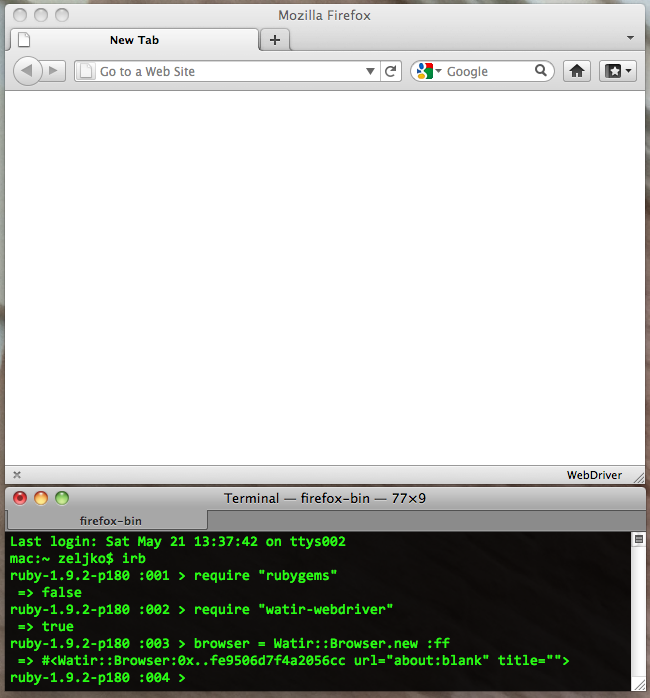
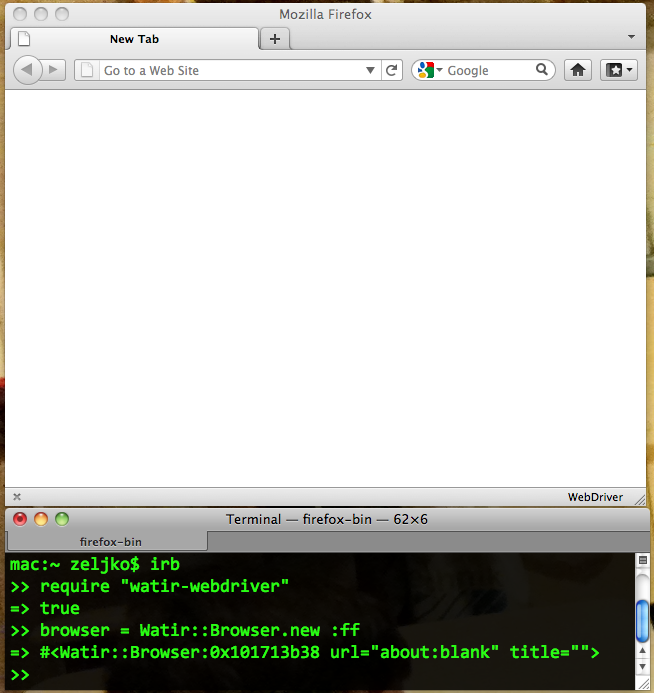
updated watir in five minutes

Changed region(s): [[0.0, 0.0, 1.0, 1.0]]

diff --git a/tools/watir5.rb b/tools/watir5.rb
@@ -1,4 +1,3 @@
-require "rubygems"
 require "watir-webdriver"
 browser = Watir::Browser.new :ff
 browser.goto "http://www.google.com/"

diff --git a/watir-in-five-minutes.md b/watir-in-five-minutes.md
@@ -1,8 +1,8 @@
 # Watir in Five Minutes
 
-In this chapter I assume you have watir-webdriver gem and Firefox browser installed, since that is the combination of the only Watir gem that is available on all platforms, and a popular browser, also available on all platforms.
+In this chapter I assume you have Ruby, RubyGems, watir-webdriver gem and Firefox browser installed, since that is the combination available on all operating systems. If you do not have them installed, please see *Installation* chapter.
 
-_An example would be handy right about now_ Brian Marick would say. Five minutes from now, you will be crazy about Watir. If not, maybe it is not the right tool for you. Even then, if you continue reading the book, I hope you will grow to like it the more you know about it.
+*An example would be handy right about now* Brian Marick would say. Five minutes from now, you will be crazy about Watir. If not, maybe it is not the right tool for you. Even then, if you continue reading the book, I hope you will grow to like it the more you know about it.
 
 In the rest of the book, I will explain all Watir functionality in great (maybe even painful) detail, but for now, I just want to show off a few cool features to get you excited about it.
 
@@ -10,27 +10,36 @@ I still remember how pleasantly surprised I was the first time I saw Watir at wo
 
 If you are familiar with Ruby, I am sure you already think IRB is one of the greatest tools for learning a new Ruby library.
 
-If you are new to Ruby, you are probably thinking: _What is this IRB thing?_
+If you are new to Ruby, you are probably thinking: *What is this IRB thing?*
 
-IRB (in this case) does not stand for _International Rugby Board_ or _Immigration or Refugee Board_ (of Canada). It stands for _Interactive Ruby Shell_. Think of it as a shell that knows Ruby (as the name says).
+IRB (in this case) does not stand for *International Rugby Board* or *Immigration or Refugee Board (of Canada)*. It stands for *Interactive Ruby Shell*. Think of it as a shell that knows Ruby (as the name says).
 
-To start IRB, just type `irb` in command line. You will see something like this (on Mac):
+To start IRB, just type `irb` in command line. You will see something like this:
 
     $ irb
-    >> 
+    >
 
-It should look similar on Windows or Linux.
 
-Now you can enter any Ruby command and you will immediately get a result. We will start with telling Ruby that we want to use RubyGems and watir-webdriver gem:
-
-    require "rubygems"
-    require "watir-webdriver"
+Now you can enter any Ruby command and you will immediately get a result. We will start with telling Ruby that we want to use watir-webdriver gem with `require "watir-webdriver"`:
 
 You should see something like this:
 
-    require "rubygems"
-    => false
-    require "watir-webdriver"
+    > require "watir-webdriver"
+    => true
+
+If you get something like this, do not panic:
+
+    > require "watir-webdriver"
+    LoadError: no such file to load -- watir-webdriver
+    from (irb):1:in `require'
+    from (irb):1
+
+It just means you have to require RubyGems first. In that case, do this:
+
+    > require "rubygems"
+    => true
+
+    > require "watir-webdriver"
     => true
 
 Every Ruby command returns something. After `require "rubygems"` you will get either `true` or `false`, depending how your Ruby installation is set up. You do not have to care about that right now. You should get `=> true` after `require "watir-webdriver"`. There are two parts in the returned line. The first one is `=>`. It looks like an arrow. It means `Ruby returned this`. The second part is `true`, the thing that is actually returned. When `true` is returned, it usually means that everything is fine.
@@ -41,97 +50,95 @@ And now the magic starts. With just one command you will open Firefox.
 
     browser = Watir::Browser.new :ff
 
-![watir-webdriver driving Firefox 4 on Mac OS 10.6](https://github.com/zeljkofilipin/watirbook/raw/master/images/watir-in-five-minutes/webdriver-firefox.png)\
+![watir-webdriver driving Firefox 6 on Mac OS 10.6](https://github.com/zeljkofilipin/watirbook/raw/master/images/watir-in-five-minutes/webdriver-firefox.png)\
 
-*watir-webdriver driving Firefox 4 on Mac OS 10.6*
+*watir-webdriver driving Firefox 6 on Mac OS 10.6*
 
-When I saw the browser magically appearing for the first time, I started singing (with apologies to [Foreigner]): _I've been waiting for a tool like you to come into my life..._
+When I saw the browser magically appearing for the first time, I started singing (with apologies to [Foreigner](http://www.youtube.com/watch?v=BrzzR-3PPqw)): *I've been waiting for a tool like you to come into my life...*
 
 Please open just one browser. It will be enough. You can play with other browsers later.
+ Output should be similar to this:
 
-Output should be similar to this:
-
-    browser = Watir::Browser.new :ff
+    > browser = Watir::Browser.new :ff
     => #<Watir::Browser:0x2ed1f1cd5b186306 url="about:blank" title="">
 
 As I said earlier, you can ignore `#<Watir::Browser...>`. Opening Firefox returned the browser as an object, and this is textual representation of the object.
 
-Just opening a browser is cool, but not so useful. Watir can do much more. For example, it can navigate the browser to any site. I will use google.com in this example. I suggest that you literally follow the example, and then try a few sites yourself.
+Just opening a browser is cool, but not so useful. Watir can do much more. For example, it can navigate the browser to any site. I will use *google.com* in this example. I suggest that you literally follow the example, and then try a few sites yourself.
 
-So, go to google.com:
+So, go to *google.com*:
 
-    browser.goto "http://www.google.com/"
+    > browser.goto "http://www.google.com/"
     => "http://www.google.hr/"
 
-And google.com opens. Magic, isn't it?
+And *google.com opens*. Magic, isn't it?
 
 Controlling the browser is really useful but, as I am sure you already know, there is more to testing than just performing the actions. You have to check what happened after the action. What happens when I enter a URL in browser address bar, when I click a link or a button, when I enter some text in a text field or select something from select box...?
 
-This is the first time we will perform a check. It is also the first time we will take a look what Ruby returns after the command. Let's check if the browser really opened google.com.
+This is the first time we will perform a check. It is also the first time we will take a look what Ruby returns after the command. Let's check if the browser really opened *google.com*.
 
-    browser.url
+    > browser.url
     => "http://www.google.hr/"
 
-It really works! Ruby returned a string (the thing in double quotes) that contains the text from the browser address bar. Since I am in Croatia, google.hr opened. If you are not in the US, some other Google site could open.
+It really works! Ruby returned a string (the thing in double quotes) that contains the text from the browser address bar. Since I am in Croatia, *google.hr* opened. If you are not in the US, some other Google site could open.
 
-Time to click on a link. It is easy to explicitly say which link to click on. Right now I want to click on a link with the text `Google.com in English`. It gets just a bit more complicated if there are two links with the same text on the page, but we will deal with that later. If your browser already opened google.com, ignore this step. 
+Time to click on a link. It is easy to explicitly say which link to click on. Right now I want to click on a link with the text *Google.com in English*. It gets just a bit more complicated if there are two links with the same text on the page, but we will deal with that later. If your browser already opened *google.com*, ignore this step.
 
-    browser.link(:text => "Google.com in English").click
+    > browser.link(:text => "Google.com in English").click
     => []
 
-And google.com opens.
+And *google.com* opens.
 
-Before we click another link, I want to show off one of Watir's killer features. It is called `flash`. Real world web applications are complex, and sometimes when you are developing a new test or debugging an existing one, you want to make sure you are interacting with the correct element. Try this (and look at `Images` link in the top-left corner of google.com):
+Before we click another link, I want to show off one of Watir's killer features. It is called *flash*. Real world web applications are complex, and sometimes when you are developing a new test or debugging an existing one, you want to make sure you are interacting with the correct element. Try this (and look at *Images* link in the top-left corner of *google.com*):
 
-    browser.link(:text => "Images").flash
+    > browser.link(:text => "Images").flash
     => 10
 
-![`Images` link with normal background](https://github.com/zeljkofilipin/watirbook/raw/master/images/watir-in-five-minutes/flash-1.png)\
-![`Images` link with red background](https://github.com/zeljkofilipin/watirbook/raw/master/images/watir-in-five-minutes/flash-2.png)\
+![Link Images with normal background](https://github.com/zeljkofilipin/watirbook/raw/master/images/watir-in-five-minutes/flash-1.png)\
+![Link Images with red background](https://github.com/zeljkofilipin/watirbook/raw/master/images/watir-in-five-minutes/flash-2.png)\
 
-*`Images` link changes background from white to red a few times.*
+*Link Images changes background from white to red a few times.*
 
-Did you see the link flashing? It's background color changes to red a few times. Isn't that cool? I use it all the time when I present Watir at conferences. I think Watir is just great for presentations. It is very visual.
+Did you see the link flashing? It's background color changes to red a few times. Isn't that cool? I use it all the time when I talk about Watir (at conferences, for example). I think Watir is just great for presentations. It is very visual.
 
-If you did not see it (it flashes just for a short time), execute the command a few more times. To execute the same command in command prompt again, just click up arrow key on your keyboard and the last command that you have typed will appear.
+If you did not see the flash (it flashes just for a short time), execute the command a few more times. To execute the same command in command prompt again, just click *up arrow* key on your keyboard and the last command that you have typed will appear.
 
 It is time to click the link:
 
-    browser.link(:text => "Images").click
+    > browser.link(:text => "Images").click
     => []
 
 This time, let's check the page title.
 
-    browser.title
+    > browser.title
     => "Google Images"
 
 We got back the string with the page title.
 
-Let's search for something. This will enter `book` in search text field:
+Let's search for something. This will enter *book* in search text field:
 
-    browser.text_field(:name => "q").set "book"
+    > browser.text_field(:name => "q").set "book"
     => ["book"]
 
-Maybe you are wondering how I knew the text field had the value of `name` attribute set to `q` (I am talking about `:name => "q"`). If you do not know how to inspect pages, read on. I will explain it later.
+Maybe you are wondering how I knew the text field had the value of *name* attribute set to *q* (I am talking about `:name => "q"`). If you do not know how to inspect pages, read on. I will explain it later.
 
-Now, click `Search Images` button:
+Now, click *Search Images* button:
 
-    browser.button(:value => "Search Images").click
+    > browser.button(:value => "Search Images").click
     => []
 
-Page with search results will open. Let's check how many images are on the page.
+Page with search results will open. Let's check how many images are on the page. (You might get a different number, it does not have to be 250.)
 
-    browser.images.size
-    => 242
+    > browser.images.size
+    => 250
 
 And finally, let's close the browser.
 
-    browser.close
+    > browser.close
     => true
 
-Well, that was a lot of fun. But you do not want to type into IRB all the time. You want to run the tests and do something else while it runs. As for almost everything else in Ruby and Watir, there is a simple solution. Paste all code you have entered in IRB in a text file, and save it with `rb` extension. IRB is used only for development or debugging, so do not paste `irb` as the first line of the file. The file should look like this:
+Well, that was a lot of fun. But you do not want to type into IRB all the time. You want to run the tests and do something else while it runs. As for almost everything else in Ruby and Watir, there is a simple solution. Paste all code you have entered in IRB in a text file, and save it with *rb* extension. IRB is used only for development or debugging, so do not paste `irb` as the first line of the file. The file should look like this:
 
-    require "rubygems"
     require "watir-webdriver"
     browser = Watir::Browser.new :ff
     browser.goto "http://www.google.com/"
@@ -144,17 +151,20 @@ Well, that was a lot of fun. But you do not want to type into IRB all the time. 
     browser.images.size
     browser.close
 
-You can use any text editor to edit the file. I use [NetBeans].
+Add `require "rubygems"` at the top of the file if you had to type it in IRB.
 
-Save the file as `watir5.rb`. To run it, navigate in command prompt to the folder where you have saved it and type `ruby watir5.rb`. If IRB is still running in your command prompt, enter `exit` to return to normal command prompt, or open a new command prompt.
+You can use any text editor to edit the file. I use [RubyMine](http://www.jetbrains.com/ruby/) or [NetBeans](http://netbeans.org/).
 
-You can remove clicking `Google.com in English` link if Firefox opens google.com automatically for you.
+Save the file as `watir5.rb`. If IRB is still running in your command prompt, enter `exit` to return to normal command prompt, or open a new command prompt. You can remove clicking `Google.com in English` link if Firefox opens *google.com* automatically for you.
 
-Execute `watir5.rb`. Smile while the browser clicks around.
+To run the file, navigate in command prompt to the folder where you have saved it and run it with `ruby watir5.rb`:
+
+    $ ruby watir5.rb
+
+Smile while the browser clicks around.
 
 What is the output in the command prompt? Nothing? Yes, nothing. IRB displays values that Ruby returns, but when you execute Ruby file from the command line, it does not display the values Ruby returns. You have to explicitly say to Ruby that you want them displayed. It is as easy as adding `puts` in front of the command. Modify the script to look like this (you can add puts in front of every command, but you really do not care about what some commands return):
 
-    require "rubygems"
     require "watir-webdriver"
     browser = Watir::Browser.new :ff
     browser.goto "http://www.google.com/"
@@ -177,9 +187,6 @@ Run the script. This time the output should look like this:
 Later I will show you how to make cool looking reports.
 
 If you are not impressed by now, you probably never will. If you liked what you saw so far, it is time to bring on heavy artillery. Let's go deeper.
-
-[Foreigner]: http://www.youtube.com/watch?v=BrzzR-3PPqw
-[NetBeans]: http://netbeans.org/
 
 \newpage
 
